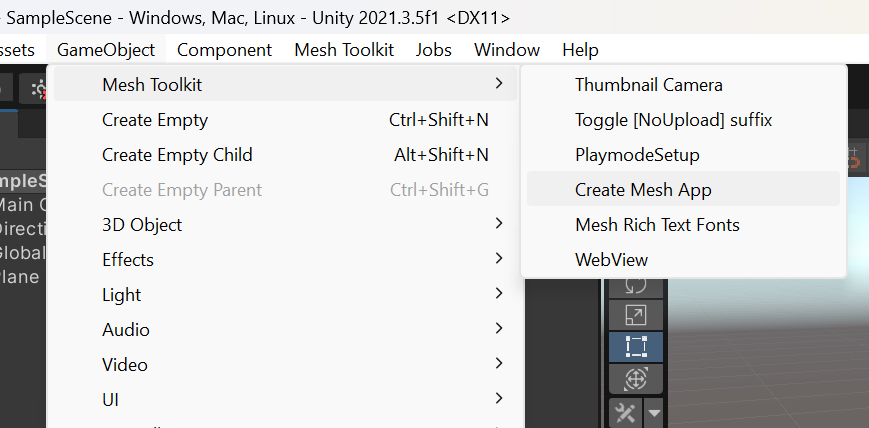
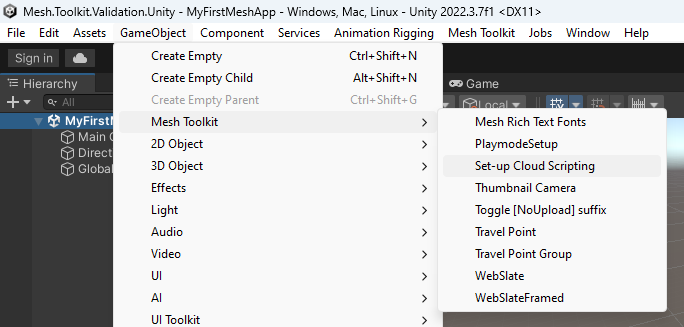
Set-up Cloud Scripting

diff --git a/mesh/Create/develop/script-your-scene-logic/cloud-scripting-getting-started.md b/mesh/Create/develop/script-your-scene-logic/cloud-scripting-getting-started.md
@@ -18,7 +18,7 @@ This article will help you configure your development environment and start iter
 - A username and password for the Azure Portal so you can upload your work.
 - Your account must be added as a Contributor to the Mesh world you’re trying to publish to. If you’re unsure about this, check with your IT admin.
 - There must be an existing Mesh World that contains a Space in the Azure Portal that you can upload your work to. To learn more about setting this up, see our document titled *Mesh IT Admin Guide*. TBD
-- There must be an existing Unity project that was created based on the process detailed in our document titled *Get Started with Mesh Environments* TBD, or you must create one. That document instructs you to load the *Mesh Toolkit* which contains the Unity package you need for Mesh Cloud Scripting. This package is named *mesh.meshapps.unityruntime*.   
+- There must be an existing Unity project that was created based on the process detailed in our document titled *Get Started with Mesh Environments* TBD, or you must create one. That document instructs you to load the *Mesh Toolkit* which contains the Unity package you need for Mesh Cloud Scripting. This package is named *com.microsoft.mesh.cloudscripting.client*.   
 - You should be at least somewhat familiar with event management. To learn more about this, see the event management section in the document titled *Mesh IT Admin Guide”*. TBD
 
 ## Software dependencies
@@ -37,7 +37,7 @@ The following instructions show how to create a simple app with a cube that rota
     > [!NOTE]
     > Renaming of Unity scenes isn't supported, and space characters aren't allowed in project and folder names.
 
-1. On the menu bar, select **GameObject** > **Mesh Toolkit** > **Create Mesh App**.
+1. On the menu bar, select **GameObject** > **Mesh Toolkit** > **Set-up Cloud Scripting**.
 
    ![Screen shot of the Create Mesh App menu item.](../../../media/mesh-scripting/getting-started/002-create-mesh-app.png)
 
